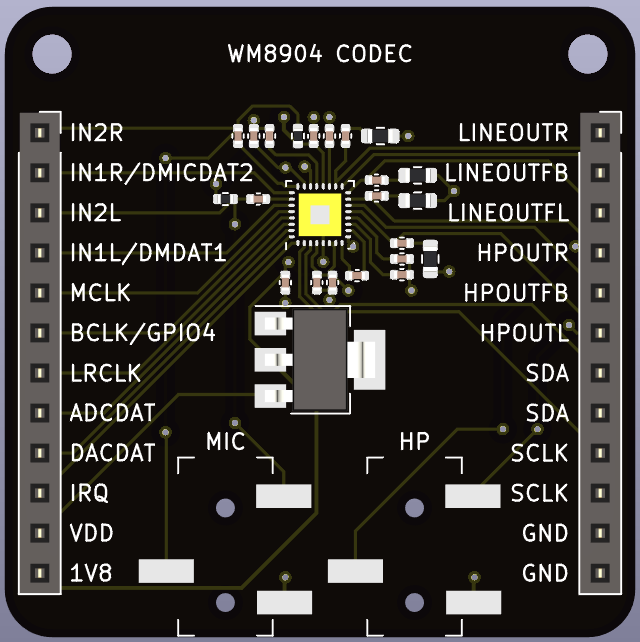
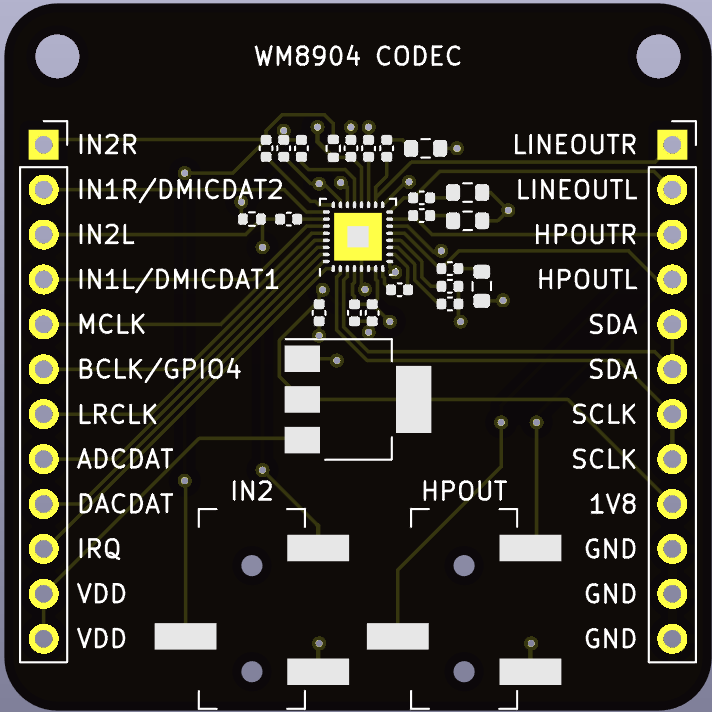
Board description fixes

diff --git a/pcm5102a_codec_breakout/README.md b/pcm5102a_codec_breakout/README.md
@@ -1,21 +1,21 @@
 # PCM5102A audio codec breakout board
 
-<img src="pcm5102a_codec_breakout.png" width="300"> 
+<img src="pcm5102a_codec_breakout.jpg" width="300"> 
 
 <img src="pcm5102a_codec_breakout.png" width="300">
 
 A breakout board for the [PCM5102A audio codec](datasheets/pcm5102a-q1.pdf) with a 3.5mm line out jack.
 
-## Headers
+## Pinout
 
 * **GND** - Ground
 * **VDD** - 3.3V supply voltage
 
-See [datasheeet](datasheets/pcm5102a-q1.pdf).
+See [datasheeet](datasheets/pcm5102a-q1.pdf) for the other pins.
 
 ## Connectors
 
-* __LINE OUT__ - Line level output.
+* __LINE OUT__ - Line level output (not suitable for headphones)
 
 ## Hand soldered components
 

diff --git a/bq24072_pmic_board/README.md b/bq24072_pmic_board/README.md
@@ -6,10 +6,11 @@
 
 A USB LiPo battery charger and power-path management board based on [Texas Instruments BQ24072](datasheets/1806131014_Texas-Instruments-BQ24072RGTR_C140288.pdf).
 
-## Headers
+## Pinout
 
-* __3V3__ - 3.3V output voltage 
+* __VBUS__ - 5V USB bus voltage
 * __D-, D+__ - USB data lines
+* __3V3__ - 3.3V output voltage 
 * __GND__ - Ground
 
 ## Connectors
@@ -24,5 +25,5 @@ A USB LiPo battery charger and power-path management board based on [Texas Instr
 
 ## Hand soldered components
 
-* 1x4 2.54 mm headers
+* 1x5 2.54 mm headers
 * 2-pin, 2.0 mm pitch, horizontal JST PH connector (**BAT**)

diff --git a/wm8758b_codec_breakout/README.md b/wm8758b_codec_breakout/README.md
@@ -8,9 +8,12 @@
 
 A breakout board for the [WM8758b audio codec](datasheets/1811051126_Cirrus-Logic-WM8758CBGEFL-RV_C323840.pdf) with 3.5mm microphone input and line/headphone output jacks.
 
-## Headers
+## Pinout
 
-See [datasheeet](datasheets/1811051126_Cirrus-Logic-WM8758CBGEFL-RV_C323840.pdf).
+* __VDD__ - 3.3V supply voltage
+* __GND__ - Ground
+
+See [datasheeet](datasheets/1811051126_Cirrus-Logic-WM8758CBGEFL-RV_C323840.pdf) for the other pins.
 
 ## Connectors
 

diff --git a/wm8904_codec_breakout/README.md b/wm8904_codec_breakout/README.md
@@ -6,9 +6,10 @@
 
 A breakout board for the [WM8904 audio codec](datasheets/1912111437_Cirrus-Logic-WM8904CGEFL-RV_C323845.pdf) with 3.5mm microphone input and line/headphone output jacks.
 
-## Headers
+## Pinout
 
 * __VDD__ - Supply voltage,  3.3V - 12V 
+* __GND__ - Ground
 * __1V8__ - 1.8V codec supply voltage. Should typically not be connected.
 
 See [datasheeet](datasheets/1912111437_Cirrus-Logic-WM8904CGEFL-RV_C323845.pdf) for the other pins.

diff --git a/tpa2012d2_amp_breakout/README.md b/tpa2012d2_amp_breakout/README.md
@@ -6,7 +6,7 @@
 
 A [TPA2012D2](datasheets/1809121818_Texas-Instruments-TPA2012D2RTJR_C7717.pdf) class-D stereo audio power amplifier breakout board with a 3.5mm line input jack.
 
-## Headers
+## Pinout
 
 * __GND__ - Ground
 * __INL__ and __INR__ - Left and right channel line input. May be used instead of the line input jack.

diff --git a/ap3722at_mic_breakout/README.md b/ap3722at_mic_breakout/README.md
@@ -6,7 +6,7 @@
 
 A breakout board for the [AP3722AT](datasheets/2011200934_ALLPOWER-ShenZhen-Quan-Li-Semiconductor-AP3722AT_C918198.pdf) analog mono MEMS microphone.
 
-## Headers
+## Pinout
 
 See [datasheet](datasheets/2011200934_ALLPOWER-ShenZhen-Quan-Li-Semiconductor-AP3722AT_C918198.pdf).
 
